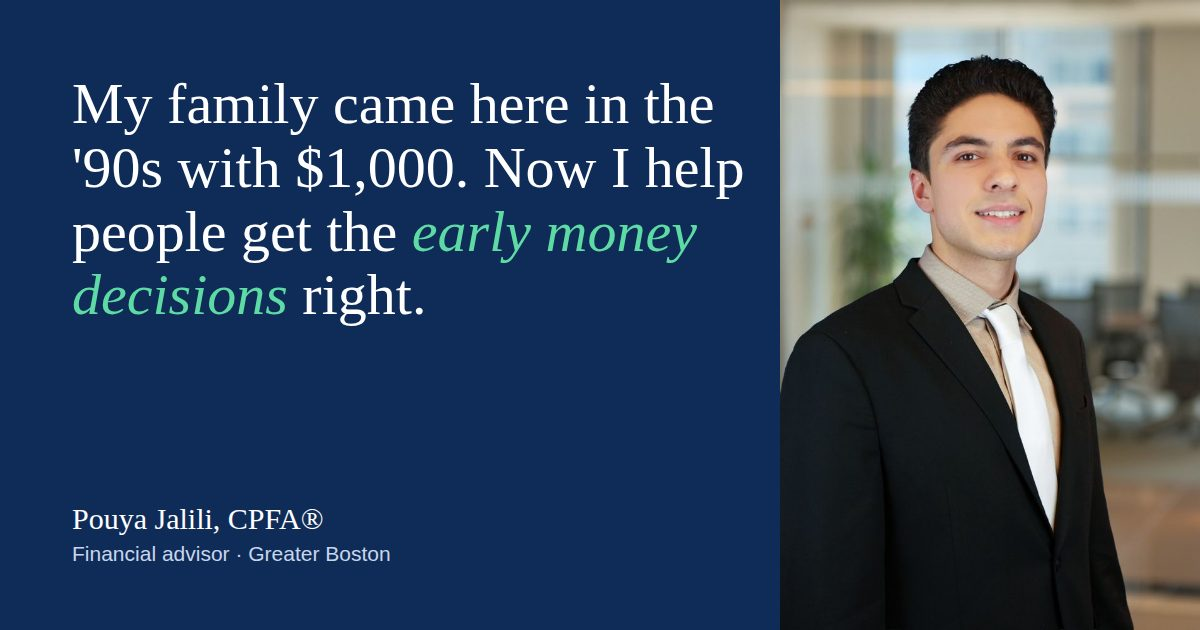
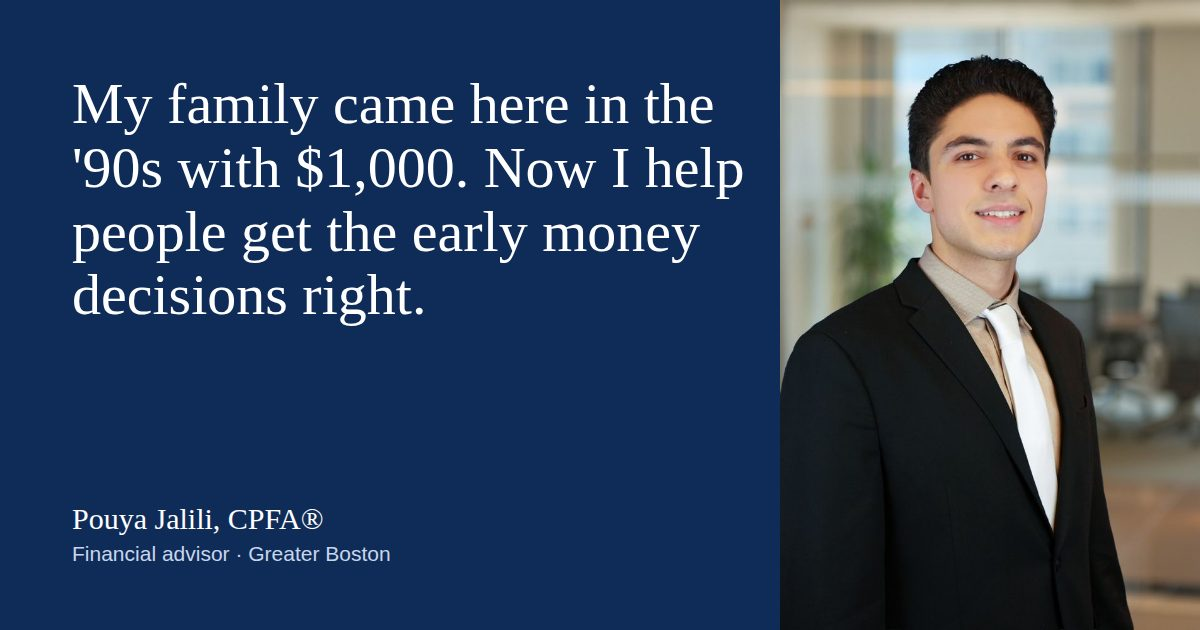
Simplify hero and labels, add insurance decisions, swap form for Calendly embed
- Hero headline in one weight and color; drop emerald accent site-wide
- Remove section eyebrows and arrow glyphs
- Physicians bullet spans residency through attending
- Insurance decision added to tech/biotech and business owner blocks
- CPFA® explained in business owner block; ® on every CPFA
- Remove contact form and FormSubmit; lazy-loaded Calendly inline embed
- Remove Wakefield placeholder; enable Plausible, drop GA4
- 44px minimum on remaining links

Claude-Session: https://claude.ai/code/session_01RgMcPSvb3wFQkiVnY4NCsH

Changed region(s): [[0.3392, 0.3317, 0.5858, 0.4222], [0.0617, 0.4222, 0.2467, 0.5127]]

diff --git a/site/index.html b/site/index.html
@@ -16,7 +16,7 @@
 <meta property="og:image" content="https://advisorpouya.com/assets/og-image.jpg">
 <meta property="og:image:width" content="1200">
 <meta property="og:image:height" content="630">
-<meta property="og:image:alt" content="Pouya Jalili, CPFA, financial advisor in Greater Boston">
+<meta property="og:image:alt" content="Pouya Jalili, CPFA®, financial advisor in Greater Boston">
 <meta name="twitter:card" content="summary_large_image">
 <meta name="twitter:title" content="Pouya Jalili, CPFA® | Financial Advisor in Greater Boston">
 <meta name="twitter:description" content="Equity compensation for tech and biotech employees, planning for physicians, and retirement plans for small business owners in Greater Boston.">
@@ -42,7 +42,7 @@
       "@type": "Person",
       "@id": "https://advisorpouya.com/#pouya",
       "name": "Pouya Jalili",
-      "honorificSuffix": "CPFA",
+      "honorificSuffix": "CPFA®",
       "jobTitle": "Financial Advisor",
       "url": "https://advisorpouya.com/",
       "image": "https://advisorpouya.com/assets/pouya-about-700.jpg",
@@ -59,7 +59,7 @@
     {
       "@type": "FinancialService",
       "@id": "https://advisorpouya.com/#practice",
-      "name": "Pouya Jalili, CPFA, Financial Advisor",
+      "name": "Pouya Jalili, CPFA®, Financial Advisor",
       "url": "https://advisorpouya.com/",
       "image": "https://advisorpouya.com/assets/og-image.jpg",
       "telephone": "+1-774-843-4919",
@@ -87,16 +87,10 @@
 }
 </script>
 
-<!-- Analytics placeholder [VERIFY: GA4 or Plausible]. Uncomment one block once chosen.
-  Plausible:
-  <script defer data-domain="advisorpouya.com" src="https://plausible.io/js/script.js"></script>
-  GA4 (replace G-XXXXXXXXXX):
-  <script async src="https://www.googletagmanager.com/gtag/js?id=G-XXXXXXXXXX"></script>
-  <script>window.dataLayer=window.dataLayer||[];function gtag(){dataLayer.push(arguments);}gtag('js',new Date());gtag('config','G-XXXXXXXXXX');</script>
--->
+<script defer data-domain="advisorpouya.com" src="https://plausible.io/js/script.js"></script>
 
 <style>
-/* Layout: navy split hero with photo, then white and pale-blue bands. Yellow is for actions, emerald marks the one hero phrase. Single light theme by design. */
+/* Layout: navy split hero with photo, then white and pale-blue bands. Yellow is for actions only. Single light theme by design. */
 :root {
   --navy: #0F2C59;
   --navy-deep: #0A1F40;
@@ -105,7 +99,6 @@
   --white: #FFFFFF;
   --yellow: #F5C431;
   --yellow-hover: #FFD24D;
-  --emerald: #5EDBA4;
   --ink: #0E1A2E;
   --muted: #4E5E76;
   --line: #D3DDEB;
@@ -126,7 +119,6 @@ h1, h2, h3 { margin: 0; text-wrap: balance; color: inherit; }
 p { margin: 0; }
 .wrap { max-width: var(--max); margin: 0 auto; padding-inline: 24px; }
 @media (max-width: 480px) { .wrap { padding-inline: 18px; } }
-.label { font-size: 12px; font-weight: 700; letter-spacing: .14em; text-transform: uppercase; color: var(--blue); }
 .h2 { font-family: var(--font-display); font-weight: 500; font-size: clamp(30px, 4vw, 44px); line-height: 1.12; color: var(--navy); }
 .verify { background: var(--verify-bg); color: var(--verify-ink); font-weight: 600; font-size: .9em; padding: 1px 6px; border-radius: 3px; }
 .btn { display: inline-flex; align-items: center; justify-content: center; gap: 8px; min-height: 48px; font: 600 16px var(--font-body); padding: 12px 22px; border-radius: 6px; text-decoration: none; border: 2px solid transparent; cursor: pointer; transition: transform .15s ease, background .15s ease; }
@@ -146,7 +138,7 @@ p { margin: 0; }
 .brand { font-family: var(--font-display); font-weight: 600; font-size: 21px; color: var(--white); text-decoration: none; white-space: nowrap; padding-block: 8px; }
 .brand sup { font-size: .5em; }
 .links { display: flex; align-items: center; gap: 26px; }
-.links a { color: var(--on-navy); text-decoration: none; font-size: 15px; font-weight: 500; padding-block: 12px; }
+.links a { color: var(--on-navy); text-decoration: none; font-size: 15px; font-weight: 500; display: inline-flex; align-items: center; min-height: 44px; }
 .links a:hover { color: var(--white); }
 .links .btn { color: var(--navy-deep); min-height: 44px; padding: 10px 16px; font-size: 15px; }
 .menu-btn { display: none; min-height: 44px; min-width: 44px; background: none; border: 1px solid rgba(255,255,255,.35); color: var(--white); border-radius: 6px; padding: 8px 14px; font: 600 15px var(--font-body); cursor: pointer; }
@@ -162,7 +154,6 @@ p { margin: 0; }
 .hero { background: var(--navy); color: var(--white); overflow: hidden; }
 .hero .wrap { display: grid; grid-template-columns: minmax(0, 1.15fr) minmax(0, .85fr); gap: 56px; align-items: center; padding-block: 72px 80px; }
 .hero h1 { font-family: var(--font-display); font-weight: 500; font-size: clamp(34px, 5vw, 60px); line-height: 1.1; letter-spacing: -.01em; }
-.hero h1 .mark { color: var(--emerald); font-style: italic; }
 .hero .sub { color: var(--on-navy); font-size: 19px; margin: 22px 0 32px; max-width: 46ch; }
 .hero .ctas { display: flex; flex-wrap: wrap; gap: 14px 28px; align-items: center; }
 .textlink { color: var(--white); font-weight: 600; text-decoration: underline; text-decoration-color: rgba(255,255,255,.4); text-underline-offset: 5px; padding-block: 12px; }
@@ -189,12 +180,12 @@ section { scroll-margin-top: 72px; }
 .who { display: grid; grid-template-columns: repeat(3, minmax(0, 1fr)); gap: 20px; }
 @media (max-width: 960px) { .who { grid-template-columns: 1fr; max-width: 640px; } }
 .who article { background: var(--white); border: 1px solid var(--line); border-radius: 8px; padding: 28px; display: grid; gap: 14px; align-content: start; grid-template-rows: auto auto 1fr auto; }
-.who .tag { justify-self: start; background: #E3F7EE; color: #0D5C3D; font-size: 12px; font-weight: 700; letter-spacing: .08em; text-transform: uppercase; padding: 4px 10px; border-radius: 4px; }
+.who .tag { justify-self: start; background: var(--pale); color: var(--navy); font-size: 14px; font-weight: 600; padding: 4px 10px; border-radius: 4px; }
 .who h3 { font-family: var(--font-display); font-weight: 600; font-size: 24px; line-height: 1.2; color: var(--navy); }
 .who ul { margin: 0; padding: 0; list-style: none; display: grid; gap: 10px; align-content: start; }
 .who li { padding-left: 22px; position: relative; color: var(--muted); }
 .who li::before { content: ""; position: absolute; left: 0; top: .72em; width: 10px; height: 2px; background: var(--blue); }
-.who a { font-weight: 600; text-decoration: none; padding-block: 8px; }
+.who a { font-weight: 600; text-decoration: none; display: inline-flex; align-items: center; min-height: 44px; justify-self: start; }
 .who a:hover { text-decoration: underline; }
 
 /* Process */
@@ -213,6 +204,7 @@ section { scroll-margin-top: 72px; }
 @media (max-width: 960px) { .decisions { grid-template-columns: 1fr; max-width: 640px; } }
 .decisions article { background: var(--white); border: 1px solid var(--line); border-top: 3px solid var(--navy); border-radius: 0 0 8px 8px; padding: 26px; display: grid; gap: 14px; align-content: start; scroll-margin-top: 80px; }
 .decisions h3 { font-family: var(--font-display); font-weight: 600; font-size: 22px; color: var(--navy); }
+.decisions .cpfa { color: var(--muted); font-size: 15px; border-top: 1px solid var(--line); padding-top: 14px; }
 .decisions ul { margin: 0; padding: 0; list-style: none; display: grid; }
 .decisions li { padding: 12px 0 12px 30px; position: relative; border-top: 1px solid var(--line); }
 .decisions li:first-child { border-top: 0; padding-top: 0; }
@@ -225,15 +217,15 @@ section { scroll-margin-top: 72px; }
 .about img { width: 100%; aspect-ratio: 1; object-fit: cover; border-radius: 4px; }
 .about .copy { display: grid; gap: 18px; }
 .about .copy p { max-width: 62ch; }
-.quote { font-family: var(--font-display); font-style: italic; font-size: 24px; line-height: 1.35; color: var(--navy); border-left: 4px solid var(--emerald); padding-left: 20px; }
+.quote { font-family: var(--font-display); font-style: italic; font-size: 24px; line-height: 1.35; color: var(--navy); border-left: 4px solid var(--yellow); padding-left: 20px; }
 .chips { display: flex; flex-wrap: wrap; gap: 8px; }
 .chips span { font-size: 14px; border: 1px solid var(--line); border-radius: 999px; padding: 5px 12px; color: var(--muted); background: var(--white); }
 .findme { border-top: 1px solid var(--line); padding-top: 18px; display: grid; gap: 8px; }
-.findme h3 { font-size: 13px; font-weight: 700; letter-spacing: .12em; text-transform: uppercase; color: var(--muted); }
+.findme h3 { font-size: 16px; font-weight: 600; color: var(--navy); }
 .findme ul { margin: 0; padding-left: 18px; display: grid; gap: 4px; }
 
 /* Contact */
-.contact { display: grid; grid-template-columns: minmax(0, .95fr) minmax(0, 1.05fr); gap: 32px; align-items: start; }
+.contact { display: grid; grid-template-columns: minmax(0, .8fr) minmax(0, 1.2fr); gap: 32px; align-items: start; }
 @media (max-width: 860px) { .contact { grid-template-columns: 1fr; } }
 .cal { background: var(--navy); color: var(--white); border-radius: 8px; padding: 32px; display: grid; gap: 16px; }
 .cal h3 { font-family: var(--font-display); font-weight: 500; font-size: 30px; line-height: 1.15; }
@@ -241,28 +233,17 @@ section { scroll-margin-top: 72px; }
 .cal .btn { justify-self: start; }
 .direct { display: grid; gap: 0; margin-top: 8px; border-top: 1px solid rgba(255,255,255,.12); padding-top: 10px; }
 .direct .line { display: grid; grid-template-columns: 100px minmax(0, 1fr); gap: 12px; align-items: baseline; }
-.direct small { font-size: 12px; font-weight: 700; letter-spacing: .12em; text-transform: uppercase; color: #9FB4D3; }
+.direct small { font-size: 14px; font-weight: 600; color: #9FB4D3; }
 .direct a { color: var(--white); text-decoration: none; padding-block: 12px; overflow-wrap: anywhere; display: inline-block; }
 .direct a:hover { text-decoration: underline; }
 .direct .addr { padding-block: 10px; }
-.direct .addr .verify { display: inline-block; margin-top: 6px; }
 @media (max-width: 420px) { .direct .line { grid-template-columns: 1fr; gap: 0; } .direct small { padding-top: 8px; } .direct a { padding-block: 10px; } .direct .addr { padding-block: 4px 8px; } }
-form { background: var(--white); border: 1px solid var(--line); border-radius: 8px; padding: 28px; display: grid; gap: 16px; }
-form h3 { font-family: var(--font-display); font-weight: 600; font-size: 24px; color: var(--navy); }
-form p.small { color: var(--muted); font-size: 15px; margin-top: -8px; }
-.row2 { display: grid; grid-template-columns: 1fr 1fr; gap: 16px; }
-@media (max-width: 560px) { .row2 { grid-template-columns: 1fr; } form, .cal { padding: 22px; } }
-.field { display: grid; gap: 6px; min-width: 0; }
-.field label { font-size: 14px; font-weight: 600; color: var(--navy); }
-.field input, .field select, .field textarea { font: 400 16px var(--font-body); min-height: 48px; padding: 12px 14px; border: 1px solid #A9B8CE; border-radius: 6px; background: var(--white); color: var(--ink); width: 100%; }
-.field textarea { min-height: 110px; resize: vertical; }
-.field input:focus-visible, .field select:focus-visible, .field textarea:focus-visible { outline: 3px solid var(--blue); outline-offset: 1px; border-color: var(--blue); }
-.hp { position: absolute !important; left: -9999px; width: 1px; height: 1px; overflow: hidden; }
-.form-note { font-size: 14px; color: var(--muted); }
-.status { font-size: 15px; font-weight: 600; padding: 12px 14px; border-radius: 6px; background: #FDECEC; color: #9B2C2C; }
-.sent { display: grid; gap: 10px; padding: 8px 0; }
-.sent h3 { font-family: var(--font-display); font-size: 26px; color: var(--navy); }
-.sent p { color: var(--muted); }
+.embed { background: var(--white); border: 1px solid var(--line); border-radius: 8px; overflow: hidden; display: grid; min-width: 0; }
+.calendly-inline-widget { width: 100%; min-width: 0; height: 700px; }
+.embed .fallback { padding: 28px; display: grid; gap: 12px; align-content: start; color: var(--muted); }
+.embed .fallback a { font-weight: 600; }
+.embed-note { font-size: 14px; color: var(--muted); padding: 14px 20px; border-top: 1px solid var(--line); }
+@media (max-width: 560px) { .cal { padding: 22px; } .calendly-inline-widget { height: 760px; } }
 
 /* Footer */
 footer { background: var(--navy-deep); color: #A9BBD6; font-size: 13px; line-height: 1.6; }
@@ -270,7 +251,7 @@ footer .wrap { padding-block: 48px; display: grid; gap: 16px; }
 footer .top { display: flex; flex-wrap: wrap; justify-content: space-between; gap: 16px; align-items: center; padding-bottom: 20px; border-bottom: 1px solid rgba(255,255,255,.1); }
 footer .brand { font-size: 19px; }
 footer nav { display: flex; gap: 0 20px; flex-wrap: wrap; }
-footer nav a { color: var(--on-navy); text-decoration: none; padding-block: 10px; font-size: 14px; }
+footer nav a { color: var(--on-navy); text-decoration: none; font-size: 14px; display: inline-flex; align-items: center; min-height: 44px; }
 footer nav a:hover { color: var(--white); }
 footer p { max-width: 95ch; }
 footer a { color: var(--on-navy); }
@@ -301,7 +282,7 @@ footer a { color: var(--on-navy); }
   <section class="hero" aria-labelledby="hero-h">
     <div class="wrap">
       <div>
-        <h1 id="hero-h">My family came here in the '90s with $1,000. Now I help people get the <span class="mark">early money decisions</span> right.</h1>
+        <h1 id="hero-h">My family came here in the '90s with $1,000. Now I help people get the early money decisions right.</h1>
         <p class="sub">Financial advisor in Greater Boston for tech and biotech employees with equity, physicians from residency on, and small business owners.</p>
         <div class="ctas">
           <a class="btn btn-y" href="https://calendly.com/pjalili-baystatefinancial/30min" target="_blank" rel="noopener">Book a 30-min call</a>
@@ -321,7 +302,6 @@ footer a { color: var(--on-navy); }
   <section class="band pale" id="who" aria-labelledby="who-h">
     <div class="wrap">
       <div class="head">
-        <span class="label">Who I help</span>
         <h2 class="h2" id="who-h">You probably recognize one of these</h2>
       </div>
       <div class="who">
@@ -334,18 +314,18 @@ footer a { color: var(--on-navy); }
             <li>You work in Kendall Square or along 128, and so does most of your net worth</li>
             <li>A liquidity event is coming and there's no plan for the day after</li>
           </ul>
-          <a href="#d-tech">The equity decisions →</a>
+          <a href="#d-tech">The equity decisions</a>
         </article>
         <article>
           <span class="tag">Physicians</span>
           <h3>You started earning late and the decisions came all at once</h3>
           <ul>
-            <li>You're a resident at a Boston teaching hospital, paying Boston rent on a resident's salary</li>
+            <li>Whether you're a resident at a Boston teaching hospital or an attending a few years out, your plan hasn't caught up with your career</li>
             <li>Student loans are competing with saving for retirement</li>
             <li>Your disability coverage may protect your ability to work, but not your specialty</li>
             <li>Your income is about to jump after training and there's no plan behind it</li>
           </ul>
-          <a href="#d-physicians">The physician decisions →</a>
+          <a href="#d-physicians">The physician decisions</a>
         </article>
         <article>
           <span class="tag">Small business owners</span>
@@ -356,7 +336,7 @@ footer a { color: var(--on-navy); }
             <li>Your own retirement is whatever is left after payroll</li>
             <li>There's no plan yet for what happens to the business later</li>
           </ul>
-          <a href="#d-business">The business owner decisions →</a>
+          <a href="#d-business">The business owner decisions</a>
         </article>
       </div>
     </div>
@@ -365,7 +345,6 @@ footer a { color: var(--on-navy); }
   <section class="band" id="how" aria-labelledby="how-h">
     <div class="wrap">
       <div class="head">
-        <span class="label">How I work</span>
         <h2 class="h2" id="how-h">It starts with a conversation</h2>
       </div>
       <div class="steps">
@@ -381,23 +360,21 @@ footer a { color: var(--on-navy); }
   <section class="band pale" id="decisions" aria-labelledby="dec-h">
     <div class="wrap">
       <div class="head">
-        <span class="label">What we decide</span>
         <h2 class="h2" id="dec-h">The decisions I help with</h2>
       </div>
       <div class="decisions">
         <article id="d-tech">
-          <span class="label">Tech &amp; biotech employees</span>
-          <h3>Equity compensation</h3>
+          <h3>Tech and biotech employees</h3>
           <ul>
             <li>Sell or hold RSUs when they vest</li>
             <li>When to exercise ISOs, and how much AMT that triggers</li>
             <li>Whether to buy ESPP shares, and when to sell them</li>
             <li>How to bring down a concentrated stock position before or after a liquidity event</li>
+            <li>Life coverage sized to a young family when most of your net worth is one company's stock</li>
           </ul>
         </article>
         <article id="d-physicians">
-          <span class="label">Physicians</span>
-          <h3>Residency through attending</h3>
+          <h3>Physicians, residency through attending</h3>
           <ul>
             <li>Own-occupation disability coverage sized to your specialty</li>
             <li>Paying down student loans versus saving for retirement</li>
@@ -406,14 +383,15 @@ footer a { color: var(--on-navy); }
           </ul>
         </article>
         <article id="d-business">
-          <span class="label">Small business owners</span>
-          <h3>Retirement plans and what comes later</h3>
+          <h3>Small business owners</h3>
           <ul>
             <li>A standalone 401(k) versus joining a pooled employer plan</li>
             <li>Plan design: who's eligible, how the match works, safe harbor or not</li>
             <li>Whether you qualify for small-employer startup tax credits</li>
             <li>How much to put toward your own retirement, and what happens to the business later</li>
+            <li>Buy-sell and key person coverage, so the business has a plan if an owner dies or becomes disabled</li>
           </ul>
+          <p class="cpfa">As a Certified Plan Fiduciary Advisor (CPFA®), I'm trained in the duties you take on as a plan sponsor, and we go through them before you set anything up.</p>
         </article>
       </div>
     </div>
@@ -426,7 +404,6 @@ footer a { color: var(--on-navy); }
         <img src="assets/pouya-about-700.jpg" srcset="assets/pouya-about-400.jpg 400w, assets/pouya-about-700.jpg 700w" sizes="(max-width: 860px) 380px, 440px" width="700" height="700" loading="lazy" decoding="async" alt="Head-and-shoulders portrait of Pouya Jalili">
       </picture>
       <div class="copy">
-        <span class="label">About</span>
         <h2 class="h2" id="about-h">Why I do this</h2>
         <p class="quote">Most people my age don't have someone in their corner for the financial decisions that matter early on. I try to be that person.</p>
         <p>My family came to this country from Iran in the '90s with $1,000. I grew up watching them build everything from scratch, and that shaped how I think about money, risk, and what it means to build something that lasts.</p>
@@ -449,7 +426,6 @@ footer a { color: var(--on-navy); }
   <section class="band pale" id="contact" aria-labelledby="contact-h">
     <div class="wrap">
       <div class="head">
-        <span class="label">Contact</span>
         <h2 class="h2" id="contact-h">Let's talk</h2>
       </div>
       <div class="contact">
@@ -461,38 +437,20 @@ footer a { color: var(--on-navy); }
             <div class="line"><small>Text</small><a href="sms:+16175442879">617-544-2879</a></div>
             <div class="line"><small>Office</small><a href="tel:+17748434919">774-843-4919</a></div>
             <div class="line"><small>Email</small><a href="mailto:pjalili@baystatefinancial.com">pjalili@baystatefinancial.com</a></div>
-            <div class="line"><small>Address</small><div class="addr">134 Turnpike Road, Suite 300<br>Southborough, MA 01772<br><span class="verify">[VERIFY: Wakefield office address and whether to list it]</span></div></div>
+            <div class="line"><small>Address</small><div class="addr">134 Turnpike Road, Suite 300<br>Southborough, MA 01772</div></div>
             <div class="line"><small>Instagram</small><a href="https://www.instagram.com/advisorpouya/" target="_blank" rel="noopener">@advisorpouya</a></div>
             <div class="line"><small>LinkedIn</small><a href="https://www.linkedin.com/in/pouya-jalili-cpfa%C2%AE-22857b11a" target="_blank" rel="noopener">Pouya Jalili, CPFA®</a></div>
           </div>
         </div>
 
-        <form id="contactForm" action="https://formsubmit.co/pjalili@baystatefinancial.com" method="POST">
-          <h3>Or send a note</h3>
-          <p class="small">I'll reply by email or text.</p>
-          <input type="hidden" name="_subject" value="New inquiry from advisorpouya.com">
-          <input type="hidden" name="_template" value="table">
-          <div class="hp" aria-hidden="true"><label for="f-honey">Leave this field empty</label><input type="text" id="f-honey" name="_honey" tabindex="-1" autocomplete="off"></div>
-          <div class="row2">
-            <div class="field"><label for="f-name">Name</label><input id="f-name" name="name" autocomplete="name" required></div>
-            <div class="field"><label for="f-email">Email</label><input id="f-email" name="email" type="email" autocomplete="email" required></div>
-          </div>
-          <div class="row2">
-            <div class="field"><label for="f-phone">Phone (optional)</label><input id="f-phone" name="phone" type="tel" autocomplete="tel"></div>
-            <div class="field"><label for="f-topic">What's this about?</label>
-              <select id="f-topic" name="topic">
-                <option>Equity compensation (tech or biotech)</option>
-                <option>Physician planning</option>
-                <option>Small business retirement plan</option>
-                <option>Something else</option>
-              </select>
+        <div class="embed">
+          <div class="calendly-inline-widget" id="calendly" data-url="https://calendly.com/pjalili-baystatefinancial/30min?hide_gdpr_banner=1&amp;primary_color=0f2c59">
+            <div class="fallback">
+              <p>The calendar loads here. If it doesn't, <a href="https://calendly.com/pjalili-baystatefinancial/30min" target="_blank" rel="noopener">open my calendar in a new tab</a>.</p>
             </div>
           </div>
-          <div class="field"><label for="f-msg">Anything you'd like me to know? (optional)</label><textarea id="f-msg" name="message"></textarea></div>
-          <div id="formStatus" class="status" role="alert" hidden></div>
-          <button class="btn btn-outline" type="submit" id="sendBtn" style="justify-self:start">Send message</button>
-          <p class="form-note">Please don't include account numbers or other sensitive information in this form.</p>
-        </form>
+          <p class="embed-note">Please don't include account numbers or other sensitive information when you book.</p>
+        </div>
       </div>
     </div>
   </section>
@@ -526,35 +484,18 @@ footer a { color: var(--on-navy); }
   navLinks.querySelectorAll('a').forEach(a => a.addEventListener('click', closeMenu));
   document.addEventListener('keydown', e => { if (e.key === 'Escape' && navLinks.classList.contains('open')) { closeMenu(); menuBtn.focus(); } });
 
-  // Contact form: posts to FormSubmit [VERIFY: form service], which emails pjalili@baystatefinancial.com
-  const form = document.getElementById('contactForm'), statusEl = document.getElementById('formStatus'), sendBtn = document.getElementById('sendBtn');
-  function fail(msg) { statusEl.textContent = msg; statusEl.hidden = false; }
-  form.addEventListener('submit', async (e) => {
-    e.preventDefault();
-    statusEl.hidden = true;
-    if (form._honey.value) return;
-    const name = form.elements.name.value.trim(), email = form.elements.email.value.trim();
-    if (!name) { fail('Add your name so I know who to reply to.'); form.elements.name.focus(); return; }
-    if (!/^[^\s@]+@[^\s@]+\.[^\s@]+$/.test(email)) { fail('Add a valid email address so I can reply.'); form.elements.email.focus(); return; }
-    sendBtn.disabled = true; sendBtn.textContent = 'Sending…';
-    try {
-      const res = await fetch('https://formsubmit.co/ajax/pjalili@baystatefinancial.com', {
-        method: 'POST', headers: { 'Accept': 'application/json' }, body: new FormData(form)
-      });
-      if (!res.ok) throw new Error(res.status);
-      const sent = document.createElement('div');
-      sent.className = 'sent'; sent.setAttribute('role', 'status'); sent.tabIndex = -1;
-      const h = document.createElement('h3'); h.textContent = 'Thanks, ' + name.split(' ')[0] + '. Your note is on its way.';
-      const p = document.createElement('p');
-      p.innerHTML = 'I\'ll reply by email or text. If it\'s easier, you can also <a href="https://calendly.com/pjalili-baystatefinancial/30min" target="_blank" rel="noopener">book a time directly</a>.';
-      sent.append(h, p);
-      form.replaceChildren(sent);
-      sent.focus();
-    } catch (err) {
-      fail("That didn't go through. Email me at pjalili@baystatefinancial.com or text 617-544-2879.");
-      sendBtn.disabled = false; sendBtn.textContent = 'Send message';
-    }
-  });
+  // Calendly embed: load the widget script only when the contact section is close to view
+  const cal = document.getElementById('calendly');
+  function loadCalendly() {
+    if (loadCalendly.done) return; loadCalendly.done = true;
+    const sc = document.createElement('script');
+    sc.src = 'https://assets.calendly.com/assets/external/widget.js'; sc.async = true;
+    document.body.appendChild(sc);
+  }
+  if ('IntersectionObserver' in window) {
+    const io = new IntersectionObserver(es => { if (es.some(e => e.isIntersecting)) { loadCalendly(); io.disconnect(); } }, { rootMargin: '600px 0px' });
+    io.observe(cal);
+  } else { loadCalendly(); }
 </script>
 </body>
 </html>
